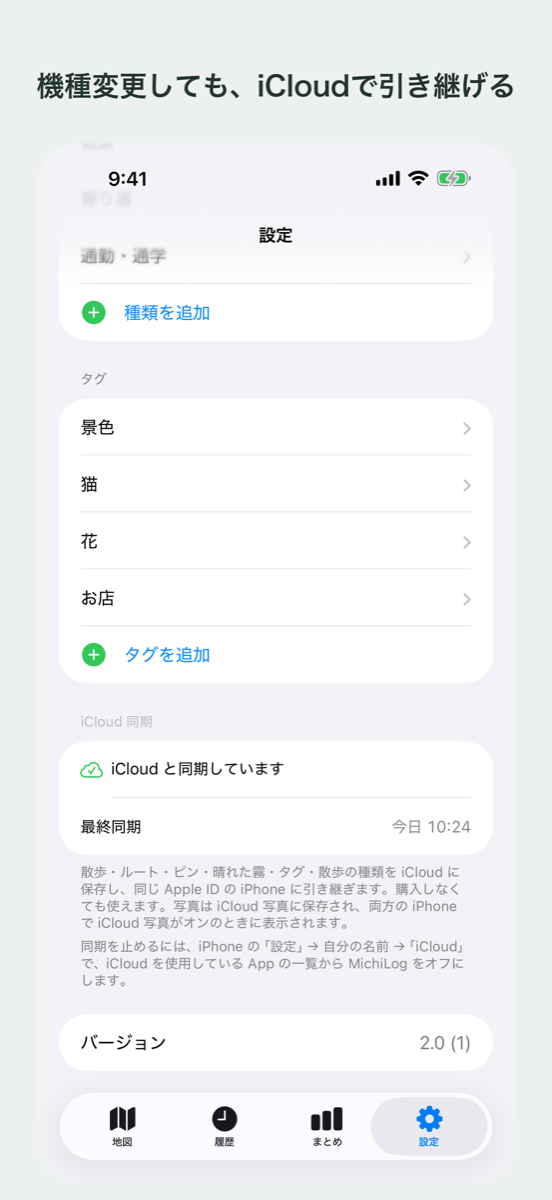
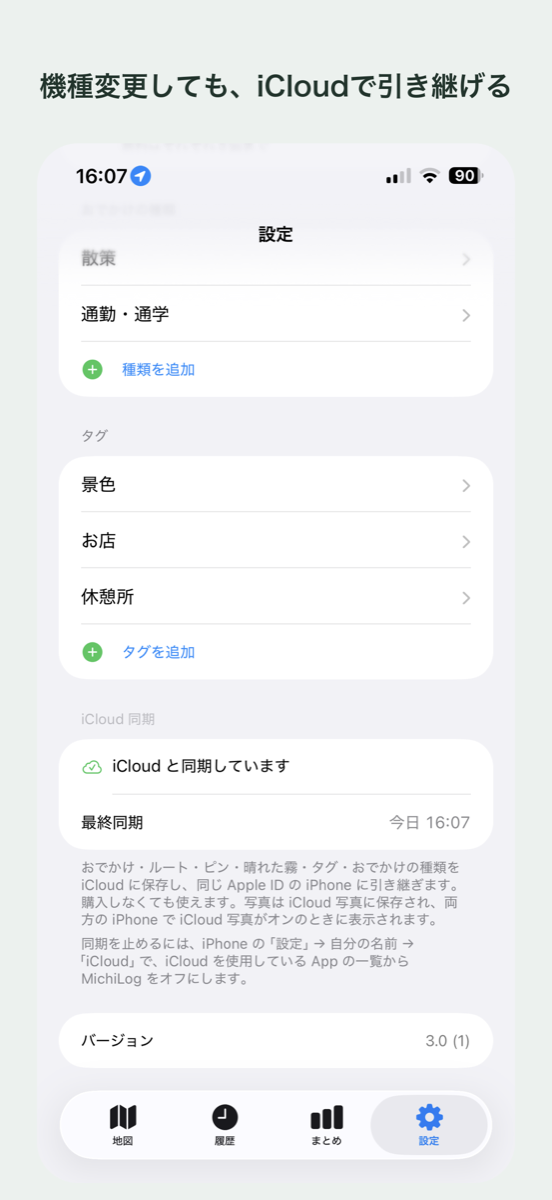
ver-3.0: LP をおでかけ・乗り物対応・歩数の内容に差し替え(広告の注記・悩みの節・やらないことの節)

diff --git a/index.html b/index.html
@@ -3,10 +3,10 @@
 <head>
 <meta charset="UTF-8">
 <meta name="viewport" content="width=device-width, initial-scale=1.0">
-<title>MichiLog — 歩いた道だけ、霧が晴れる散歩地図</title>
-<meta name="description" content="MichiLogは、歩いた道の霧が晴れていく地図に、その場で撮った写真とメモが残る散歩アプリです。">
-<meta property="og:title" content="MichiLog — 歩いた道だけ、霧が晴れる散歩地図">
-<meta property="og:description" content="MichiLogは、歩いた道の霧が晴れていく地図に、その場で撮った写真とメモが残る散歩アプリです。">
+<title>MichiLog — 通った道だけ、霧が晴れるおでかけ地図</title>
+<meta name="description" content="MichiLogは、通った道の霧が晴れていく地図に、その場で撮った写真とメモが残るおでかけの記録アプリです。歩いた道は広く、電車や車で通った道は細く晴れます。">
+<meta property="og:title" content="MichiLog — 通った道だけ、霧が晴れるおでかけ地図">
+<meta property="og:description" content="MichiLogは、通った道の霧が晴れていく地図に、その場で撮った写真とメモが残るおでかけの記録アプリです。歩いた道は広く、電車や車で通った道は細く晴れます。">
 <meta property="og:type" content="website">
 <link rel="preconnect" href="https://fonts.googleapis.com">
 <link href="https://fonts.googleapis.com/css2?family=Zen+Maru+Gothic:wght@700;900&amp;family=Zen+Kaku+Gothic+New:wght@400;500;700&amp;family=DM+Mono:wght@400;500&amp;display=swap" rel="stylesheet">
@@ -72,14 +72,33 @@ a{color:#B34A17}a:hover{color:#8C3810}
 <div class="wrap hero" style="position: relative">
 <div style="display: flex; flex-direction: column; gap: 28px; align-items: flex-start">
 <span style="font-size: 13px; font-weight: 700; letter-spacing: .12em; color: #1C2A33; background: #FFFFFF; border-radius: 999px; padding: 4px 14px">iPhone アプリ</span>
-<h1 style="margin: 0; font-size: clamp(40px, 6vw, 72px); line-height: 1.28; font-weight: 900; letter-spacing: .02em">歩いた道だけ、<br>霧が晴れる。</h1>
-<p style="font-size: clamp(16px, 1.6vw, 18px); color: #34444F; max-width: 30em">知らない道を歩いた日のこと、地図の上に残っていますか。<br>MichiLog（ミチログ）は、歩いた道の霧が晴れていく地図に、その場で撮った写真とメモが残る散歩アプリです。</p>
+<h1 style="margin: 0; font-size: clamp(40px, 6vw, 72px); line-height: 1.28; font-weight: 900; letter-spacing: .02em">通った道だけ、<br>霧が晴れる。</h1>
+<p style="font-size: clamp(16px, 1.6vw, 18px); color: #34444F; max-width: 30em">MichiLog（ミチログ）は、通った道の霧が晴れていく地図に、その場で撮った写真とメモが残るおでかけの記録アプリです。<br>歩いた道は広く、電車や車で通った道は細く。見えていた景色の分だけ晴れます。</p>
 <div style="display: flex; flex-direction: column; gap: 12px; align-items: flex-start">
 <a class="cta-btn" id="cta-top" href="https://apps.apple.com/jp/app/michilog/id6819015225">App Store で見る<svg width="18" height="18" viewBox="0 0 24 24" fill="none" stroke="currentColor" stroke-width="2" stroke-linecap="round" stroke-linejoin="round" aria-hidden="true"><path d="M5 12h14"></path><path d="M13 6l6 6-6 6"></path></svg></a>
-<p style="font-size: 13px; color: #34444F">無料（アプリ内課金あり）</p>
+<p style="font-size: 13px; color: #34444F">無料（広告あり）<br>広告なし・まとめなどは買い切り ¥480</p>
 </div>
 </div>
-<div class="shot" style="justify-self: center"><img class="shotimg" src="images/shot-01-fog-map.png" alt="地図タブ。地図全体が薄いグレーの霧に覆われ、これまで歩いた道の周りだけが帯状に晴れて地図が見えている。オレンジのピンが点在し、上に今日の距離と今日の時間、下に開始ボタン"></div>
+<div class="shot" style="justify-self: center"><img class="shotimg" src="images/shot-01-fog-map.png" alt="地図タブ。地図全体が薄いグレーの霧に覆われ、これまで通った道の周りだけが帯状に晴れて地図が見えている。オレンジのピンが点在し、上に今日の距離と今日の時間、下に開始ボタン"></div>
+</div>
+</section>
+
+<!-- 悩み -->
+<section style="padding: 112px 0">
+<div class="wrap" style="display: flex; flex-direction: column; gap: 40px">
+<h2 style="margin: 0; font-size: clamp(24px, 3vw, 32px); line-height: 1.4; font-weight: 900">こんなこと、ありませんか</h2>
+<div class="cols3">
+<div style="background: #FFFFFF; border-radius: 20px; padding: 24px">
+<p style="font-size: 15px; line-height: 1.75">あちこち出かけているのに、どこへ行ったかを地図で見返せない</p>
+</div>
+<div style="background: #FFFFFF; border-radius: 20px; padding: 24px">
+<p style="font-size: 15px; line-height: 1.75">出かけた先で撮った写真が、どの道のどのあたりだったか思い出せない</p>
+</div>
+<div style="background: #FFFFFF; border-radius: 20px; padding: 24px">
+<p style="font-size: 15px; line-height: 1.75">近所の道は、もう歩き尽くした気がする</p>
+</div>
+</div>
+<p style="color: #4D5B64; max-width: 760px">MichiLog は、通った道を地図に晴らし、見つけたものをその場所に残します。歩いて回った町も、電車で通り過ぎた町も、同じ1枚の地図に。</p>
 </div>
 </section>
 
@@ -89,13 +108,13 @@ a{color:#B34A17}a:hover{color:#8C3810}
 <div style="display: flex; flex-direction: column; gap: 16px; max-width: 760px">
 <span style="font-family: 'DM Mono', monospace; font-size: 14px; color: #B34A17; letter-spacing: .1em">01 — 霧の地図</span>
 <h2 style="margin: 0; font-size: clamp(28px, 3.6vw, 42px); line-height: 1.4; font-weight: 900">地図は最初、すべて霧の中</h2>
-<p style="color: #4D5B64">歩いた道の周りだけ霧が晴れ、晴れた範囲はこれまでの散歩の積み重ねとして広がっていきます。霧は薄く透けていて、下の道路や地名がうっすら見えます。まだ歩いていない道が、どこにあるかは分かります。</p>
+<p style="color: #4D5B64">通った道の周りだけ霧が晴れ、晴れた範囲はこれまでのおでかけの積み重ねとして広がっていきます。晴れる幅は、そのとき見えていた景色に合わせて変わります。歩いているときは周りがよく見えるので広く、電車や車では景色が流れていくので細く晴れます。移動の手段を選ぶ操作はなく、速さから自動で決まります。霧は薄く透けていて、下の道路や地名がうっすら見えます。まだ通っていない道が、どこにあるかは分かります。</p>
 </div>
-<div class="cols2">
+<div class="cols3">
 <div style="border-radius: 24px; background: #DCE3E8; padding: 28px; min-height: 200px; display: flex; flex-direction: column; justify-content: space-between; gap: 24px">
 <svg width="100%" height="72" viewBox="0 0 400 72" preserveAspectRatio="none" fill="none" aria-hidden="true"><path d="M0 52 C 80 20, 160 64, 240 30 S 360 40, 400 18" stroke="#BCC7CF" stroke-width="10" stroke-linecap="round" stroke-dasharray="1 18"></path></svg>
 <div style="display: flex; flex-direction: column; gap: 4px">
-<h3 style="margin: 0; font-size: 20px; font-weight: 700">まだ歩いていない道</h3>
+<h3 style="margin: 0; font-size: 20px; font-weight: 700">まだ通っていない道</h3>
 <p style="font-size: 14px; color: #34444F">霧の下に、うっすら見えている</p>
 </div>
 </div>
@@ -103,7 +122,14 @@ a{color:#B34A17}a:hover{color:#8C3810}
 <svg width="100%" height="72" viewBox="0 0 400 72" preserveAspectRatio="none" fill="none" aria-hidden="true"><path d="M0 52 C 80 20, 160 64, 240 30 S 360 40, 400 18" stroke="#F0DDB0" stroke-width="26" stroke-linecap="round"></path><path d="M0 52 C 80 20, 160 64, 240 30 S 360 40, 400 18" stroke="#FFFFFF" stroke-width="3" stroke-linecap="round" stroke-dasharray="2 10"></path><circle cx="240" cy="30" r="9" fill="#E0662B"></circle></svg>
 <div style="display: flex; flex-direction: column; gap: 4px">
 <h3 style="margin: 0; font-size: 20px; font-weight: 700">歩いた道</h3>
-<p style="font-size: 14px; color: #4D5B64">周りの霧が晴れて、地図に残っていく</p>
+<p style="font-size: 14px; color: #4D5B64">周りがよく見えるので、広く晴れる</p>
+</div>
+</div>
+<div style="border-radius: 24px; background: #FBF4E6; border: 1px solid #EEDDBD; padding: 28px; min-height: 200px; display: flex; flex-direction: column; justify-content: space-between; gap: 24px">
+<svg width="100%" height="72" viewBox="0 0 400 72" preserveAspectRatio="none" fill="none" aria-hidden="true"><path d="M0 52 C 80 20, 160 64, 240 30 S 360 40, 400 18" stroke="#F0DDB0" stroke-width="10" stroke-linecap="round"></path><path d="M0 52 C 80 20, 160 64, 240 30 S 360 40, 400 18" stroke="#FFFFFF" stroke-width="2" stroke-linecap="round" stroke-dasharray="2 10"></path></svg>
+<div style="display: flex; flex-direction: column; gap: 4px">
+<h3 style="margin: 0; font-size: 20px; font-weight: 700">電車や車で通った道</h3>
+<p style="font-size: 14px; color: #4D5B64">景色が流れていくので、細く晴れる</p>
 </div>
 </div>
 </div>
@@ -115,15 +141,15 @@ a{color:#B34A17}a:hover{color:#8C3810}
 <div class="wrap split">
 <div style="display: flex; flex-direction: column; gap: 20px">
 <span style="font-family: 'DM Mono', monospace; font-size: 14px; color: #B34A17; letter-spacing: .1em">02 — 記録</span>
-<h2 style="margin: 0; font-size: clamp(28px, 3.6vw, 42px); line-height: 1.4; font-weight: 900">散歩中も、<br class="hide-sm">歩くそばから晴れていく</h2>
-<p style="color: #4D5B64">開始ボタンを押して歩き、終了ボタンを押すだけ。散歩のルート・距離・時間が記録され、今日歩いた距離と時間は地図の画面でいつでも見られます。</p>
+<h2 style="margin: 0; font-size: clamp(28px, 3.6vw, 42px); line-height: 1.4; font-weight: 900">おでかけ中も、<br class="hide-sm">通ったそばから晴れていく</h2>
+<p style="color: #4D5B64">出かけるときに開始ボタン、帰ったら終了ボタンを押すだけ。おでかけのルート・距離・時間が記録され、今日の距離と時間は地図の画面でいつでも見られます。</p>
 <p style="color: #4D5B64">画面を閉じても、iPhone をロックしても記録は続きます。</p>
 <div style="background: #FFFFFF; border: 1px solid #DFE6EB; border-radius: 16px; padding: 16px 20px; display: flex; gap: 12px; align-items: flex-start">
 <svg width="22" height="22" viewBox="0 0 24 24" fill="none" stroke="#4D5B64" stroke-width="1.8" stroke-linecap="round" stroke-linejoin="round" aria-hidden="true" style="flex: none; margin-top: 3px"><rect x="5" y="3" width="14" height="14" rx="3"></rect><path d="M5 11h14"></path><path d="M8 21l2-4"></path><path d="M16 21l-2-4"></path></svg>
-<p style="font-size: 14px; color: #4D5B64; line-height: 1.75">電車や車など、歩く速さを超える移動が続いた区間は、ルート・距離・霧に入りません。</p>
+<p style="font-size: 14px; color: #4D5B64; line-height: 1.75">電車や車、自転車で移動した区間も、ルートと距離に入ります。位置が取れない区間は晴れません。</p>
 </div>
 </div>
-<div class="shot"><img class="shotimg" loading="lazy" src="images/shot-02-recording.png" alt="記録中の地図タブ。上に「記録中」と経過時間と距離。青い線で今歩いているルートが描かれ、その周りの霧が晴れている。下に終了ボタンとピンボタン"></div>
+<div class="shot"><img class="shotimg" loading="lazy" src="images/shot-02-recording.png" alt="記録中の地図タブ。上に「記録中」と経過時間と距離。青い線で今通っているルートが描かれ、その周りの霧が晴れている。下に終了ボタンとピンボタン"></div>
 </div>
 </section>
 
@@ -134,7 +160,7 @@ a{color:#B34A17}a:hover{color:#8C3810}
 <div style="display: flex; flex-direction: column; gap: 20px">
 <span style="font-family: 'DM Mono', monospace; font-size: 14px; color: #B34A17; letter-spacing: .1em">03 — ピン</span>
 <h2 style="margin: 0; font-size: clamp(28px, 3.6vw, 42px); line-height: 1.4; font-weight: 900">見つけたものを、<br class="hide-sm">その場所に残す</h2>
-<p style="color: #4D5B64">散歩中は、現在地にピンを打って写真とメモを残せます。写真もメモも任意なので、気になった場所にさっと印だけ付けることもできます。</p>
+<p style="color: #4D5B64">おでかけ中は、現在地にピンを打って写真とメモを残せます。写真もメモも任意なので、気になった場所にさっと印だけ付けることもできます。</p>
 <p style="color: #4D5B64">写真は、その場でカメラで撮るか、iPhoneの写真ライブラリから選んで付けられます。打ったピンは、あとから写真・メモ・タグを変えたり、写真を外したり、ピンごと削除したりできます（ピンの場所と時刻は変わりません）。</p>
 <div style="display: flex; flex-wrap: wrap; gap: 8px; align-items: center">
 <span style="font-size: 14px; font-weight: 700; color: #1C2A33; background: #FBF4E6; border: 1px solid #EEDDBD; border-radius: 999px; padding: 4px 14px">景色</span>
@@ -155,11 +181,11 @@ a{color:#B34A17}a:hover{color:#8C3810}
 <div style="display: flex; flex-direction: column; gap: 20px">
 <span style="font-family: 'DM Mono', monospace; font-size: 14px; color: #B34A17; letter-spacing: .1em">04 — 見返す</span>
 <h2 style="margin: 0; font-size: clamp(28px, 3.6vw, 42px); line-height: 1.4; font-weight: 900">あの日の道を、もう一度</h2>
-<p style="color: #4D5B64">過去の散歩は一覧から選んで、ルートとピンを見返せます。</p>
-<p style="color: #4D5B64">散歩を終えたら「散策」「通勤・通学」のような散歩の種類を選べます。種類も自分で追加できます。</p>
-<p style="color: #4D5B64">不要な散歩は削除でき、削除すると霧も残った散歩から作り直されます。</p>
+<p style="color: #4D5B64">過去のおでかけは一覧から選んで、ルートとピンを見返せます。おでかけごとの歩数も出ます（「モーションとフィットネス」を許可したとき。ヘルスケアは使いません）。</p>
+<p style="color: #4D5B64">おでかけを終えたら「散策」「通勤・通学」のようなおでかけの種類を選べます。「旅行」のような種類も自分で追加できます。</p>
+<p style="color: #4D5B64">不要なおでかけは削除でき、削除すると霧も残ったおでかけから作り直されます。</p>
 </div>
-<div class="shot"><img class="shotimg" loading="lazy" src="images/shot-04-walk-detail.png" alt="散歩詳細。散歩のルートが地図に青い線で描かれ、ピンが2つ。下に時刻、距離、時間、散歩の種類「散策」、ピンのメモ2件"></div>
+<div class="shot"><img class="shotimg" loading="lazy" src="images/shot-04-walk-detail.png" alt="おでかけの詳細。おでかけのルートが地図に青い線で描かれ、ピンが2つ。下に時刻、距離、時間、おでかけの種類「散策」、ピンのメモ2件"></div>
 </div>
 </section>
 
@@ -168,35 +194,35 @@ a{color:#B34A17}a:hover{color:#8C3810}
 <div class="wrap" style="display: flex; flex-direction: column; gap: 56px">
 <div style="display: flex; flex-direction: column; gap: 16px; max-width: 760px">
 <span style="font-family: 'DM Mono', monospace; font-size: 14px; color: #F4A06E; letter-spacing: .1em">05 — 積み重ね</span>
-<h2 style="margin: 0; font-size: clamp(28px, 3.6vw, 42px); line-height: 1.4; font-weight: 900">歩いた記録が、積み上がる</h2>
+<h2 style="margin: 0; font-size: clamp(28px, 3.6vw, 42px); line-height: 1.4; font-weight: 900">出かけた記録が、積み上がる</h2>
 <p style="color: #D3DCE2">記録できる件数に上限はありません。</p>
 </div>
 <div class="cols3" style="align-items: start">
 <div style="display: flex; flex-direction: column; gap: 20px">
-<img loading="lazy" src="images/shot-05-history.png" alt="履歴タブ。散歩が新しい順に並び、日付と開始時刻、距離と時間、散歩の種類が出ている" style="width: 100%; height: auto; display: block; border-radius: 24px">
+<img loading="lazy" src="images/shot-05-history.png" alt="履歴タブ。おでかけが新しい順に並び、日付と開始時刻、距離と時間、おでかけの種類が出ている" style="width: 100%; height: auto; display: block; border-radius: 24px">
 <div style="display: flex; flex-direction: column; gap: 6px">
 <h3 style="margin: 0; font-size: 20px; font-weight: 700">履歴</h3>
-<p style="font-size: 14px; color: #D3DCE2; line-height: 1.75">散歩が新しい順に並びます。日付と開始時刻、距離と時間が1行に出ます。</p>
+<p style="font-size: 14px; color: #D3DCE2; line-height: 1.75">おでかけが新しい順に並びます。日付と開始時刻、距離と時間が1行に出ます。</p>
 </div>
 </div>
 <div style="display: flex; flex-direction: column; gap: 20px">
-<img loading="lazy" src="images/shot-06-summary.png" alt="まとめタブの週の表示。期間の回数・距離・時間、曜日ごとの距離の棒グラフと、散歩の種類別の回数と距離" style="width: 100%; height: auto; display: block; border-radius: 24px">
+<img loading="lazy" src="images/shot-06-summary.png" alt="まとめタブの週の表示。期間の回数・距離・時間、曜日ごとの距離の棒グラフと、おでかけの種類別の回数と距離" style="width: 100%; height: auto; display: block; border-radius: 24px">
 <div style="display: flex; flex-direction: column; gap: 6px">
 <div style="display: flex; align-items: center; gap: 10px; flex-wrap: wrap">
 <h3 style="margin: 0; font-size: 20px; font-weight: 700">まとめ</h3>
 <span style="font-size: 12px; font-weight: 700; color: #1C2A33; background: #F4A06E; border-radius: 6px; padding: 1px 8px">買い切りで使える</span>
 </div>
-<p style="font-size: 14px; color: #D3DCE2; line-height: 1.75">週・月・年ごとの散歩の回数・距離・時間をグラフで。散歩の種類別の内訳と、タグ別のピンの数も出ます。</p>
+<p style="font-size: 14px; color: #D3DCE2; line-height: 1.75">週・月・年ごとのおでかけの回数・距離・時間をグラフで。距離の歩きと乗り物の内訳、歩数の合計、おでかけの種類別の内訳と、タグ別のピンの数も出ます。</p>
 </div>
 </div>
 <div style="display: flex; flex-direction: column; gap: 20px">
-<img loading="lazy" src="images/shot-07-filter.png" alt="履歴タブを散歩の種類「散策」とタグ「景色」で絞り込んだ表示" style="width: 100%; height: auto; display: block; border-radius: 24px">
+<img loading="lazy" src="images/shot-07-filter.png" alt="履歴タブをおでかけの種類「散策」とタグ「景色」で絞り込んだ表示" style="width: 100%; height: auto; display: block; border-radius: 24px">
 <div style="display: flex; flex-direction: column; gap: 6px">
 <div style="display: flex; align-items: center; gap: 10px; flex-wrap: wrap">
 <h3 style="margin: 0; font-size: 20px; font-weight: 700">絞り込み</h3>
 <span style="font-size: 12px; font-weight: 700; color: #1C2A33; background: #F4A06E; border-radius: 6px; padding: 1px 8px">買い切りで使える</span>
 </div>
-<p style="font-size: 14px; color: #D3DCE2; line-height: 1.75">履歴を散歩の種類とタグで絞り込めます。タグを複数選ぶと、どれかが付いた散歩が並びます。</p>
+<p style="font-size: 14px; color: #D3DCE2; line-height: 1.75">履歴をおでかけの種類とタグで絞り込めます。タグを複数選ぶと、どれかが付いたおでかけが並びます。</p>
 </div>
 </div>
 </div>
@@ -206,7 +232,7 @@ a{color:#B34A17}a:hover{color:#8C3810}
 <!-- 06 iCloud -->
 <section style="padding: 112px 0; background: #FFFFFF">
 <div class="wrap split flip">
-<div class="shot"><img class="shotimg" loading="lazy" src="images/shot-08-settings.png" alt="設定タブ。散歩の種類とタグの一覧、iCloud 同期の欄に「iCloud と同期しています」と最終同期の時刻"></div>
+<div class="shot"><img class="shotimg" loading="lazy" src="images/shot-08-settings.png" alt="設定タブ。おでかけの種類とタグの一覧、iCloud 同期の欄に「iCloud と同期しています」と最終同期の時刻"></div>
 <div style="display: flex; flex-direction: column; gap: 20px">
 <span style="font-family: 'DM Mono', monospace; font-size: 14px; color: #B34A17; letter-spacing: .1em">06 — 引き継ぎ</span>
 <h2 style="margin: 0; font-size: clamp(28px, 3.6vw, 42px); line-height: 1.4; font-weight: 900">機種変更しても、引き継げる</h2>
@@ -229,8 +255,8 @@ a{color:#B34A17}a:hover{color:#8C3810}
 <h3 style="margin: 0; font-size: 24px; font-weight: 900">無料</h3>
 <span style="font-family: 'DM Mono', monospace; font-size: 28px; font-weight: 500">¥0</span>
 </div>
-<p style="font-size: 15px; font-weight: 700">記録・霧・ピン・履歴・iCloud での引き継ぎは、ずっと無料です。</p>
-<p style="font-size: 14px; color: #4D5B64; line-height: 1.8">購入していない間は、履歴・まとめ・設定の画面と、散歩を終えたあとに広告が出ます。地図の画面には出ません。</p>
+<p style="font-size: 15px; font-weight: 700">記録・霧（電車や車で通った道を含む）・ピン・歩数・履歴・iCloud での引き継ぎは、ずっと無料です。</p>
+<p style="font-size: 14px; color: #4D5B64; line-height: 1.8">購入していない間は、履歴・まとめ・設定の画面と、おでかけを終えたあとに広告が出ます。地図の画面には出ません。</p>
 </div>
 <div style="background: #FFFFFF; border: 2px solid #E0662B; border-radius: 28px; padding: 36px; display: flex; flex-direction: column; gap: 20px">
 <div style="display: flex; align-items: baseline; justify-content: space-between; gap: 12px; flex-wrap: wrap">
@@ -239,39 +265,54 @@ a{color:#B34A17}a:hover{color:#8C3810}
 </div>
 <ul style="margin: 0; padding: 0; list-style: none; display: flex; flex-direction: column; gap: 10px; font-size: 15px; line-height: 1.7">
 <li style="display: flex; gap: 10px; align-items: flex-start"><svg width="18" height="18" viewBox="0 0 24 24" fill="none" stroke="#B34A17" stroke-width="2.2" stroke-linecap="round" stroke-linejoin="round" aria-hidden="true" style="flex: none; margin-top: 5px"><path d="M5 12l5 5 9-10"></path></svg><span>広告が消える</span></li>
-<li style="display: flex; gap: 10px; align-items: flex-start"><svg width="18" height="18" viewBox="0 0 24 24" fill="none" stroke="#B34A17" stroke-width="2.2" stroke-linecap="round" stroke-linejoin="round" aria-hidden="true" style="flex: none; margin-top: 5px"><path d="M5 12l5 5 9-10"></path></svg><span>まとめ</span></li>
+<li style="display: flex; gap: 10px; align-items: flex-start"><svg width="18" height="18" viewBox="0 0 24 24" fill="none" stroke="#B34A17" stroke-width="2.2" stroke-linecap="round" stroke-linejoin="round" aria-hidden="true" style="flex: none; margin-top: 5px"><path d="M5 12l5 5 9-10"></path></svg><span>まとめ（歩きと乗り物の内訳・歩数の合計を含む）</span></li>
 <li style="display: flex; gap: 10px; align-items: flex-start"><svg width="18" height="18" viewBox="0 0 24 24" fill="none" stroke="#B34A17" stroke-width="2.2" stroke-linecap="round" stroke-linejoin="round" aria-hidden="true" style="flex: none; margin-top: 5px"><path d="M5 12l5 5 9-10"></path></svg><span>履歴の絞り込み</span></li>
-<li style="display: flex; gap: 10px; align-items: flex-start"><svg width="18" height="18" viewBox="0 0 24 24" fill="none" stroke="#B34A17" stroke-width="2.2" stroke-linecap="round" stroke-linejoin="round" aria-hidden="true" style="flex: none; margin-top: 5px"><path d="M5 12l5 5 9-10"></path></svg><span>6個目以降のタグと散歩の種類</span></li>
+<li style="display: flex; gap: 10px; align-items: flex-start"><svg width="18" height="18" viewBox="0 0 24 24" fill="none" stroke="#B34A17" stroke-width="2.2" stroke-linecap="round" stroke-linejoin="round" aria-hidden="true" style="flex: none; margin-top: 5px"><path d="M5 12l5 5 9-10"></path></svg><span>6個目以降のタグとおでかけの種類</span></li>
 </ul>
 </div>
 </div>
 </div>
 </section>
 
-<!-- プライバシー -->
+<!-- やらないこと -->
 <section style="padding: 0 0 112px">
 <div class="wrap" style="display: flex; flex-direction: column; gap: 32px">
-<h2 style="margin: 0; font-size: clamp(24px, 3vw, 32px); line-height: 1.4; font-weight: 900">位置情報とプライバシー</h2>
-<div class="cols4">
+<h2 style="margin: 0; font-size: clamp(24px, 3vw, 32px); line-height: 1.4; font-weight: 900">やらないこと</h2>
+<div class="cols3">
 <div style="background: #FFFFFF; border-radius: 20px; padding: 24px; display: flex; flex-direction: column; gap: 12px">
 <svg width="26" height="26" viewBox="0 0 24 24" fill="none" stroke="#1C2A33" stroke-width="1.8" stroke-linecap="round" stroke-linejoin="round" aria-hidden="true"><path d="M12 21s-7-6.2-7-11.5A7 7 0 0 1 19 9.5C19 14.8 12 21 12 21z"></path><circle cx="12" cy="9.5" r="2.5"></circle></svg>
-<p style="font-size: 14px; line-height: 1.75">位置情報は「使用中のみ許可」で使います。「常に許可」は求めません</p>
-</div>
-<div style="background: #FFFFFF; border-radius: 20px; padding: 24px; display: flex; flex-direction: column; gap: 12px">
-<svg width="26" height="26" viewBox="0 0 24 24" fill="none" stroke="#1C2A33" stroke-width="1.8" stroke-linecap="round" stroke-linejoin="round" aria-hidden="true"><rect x="7" y="2" width="10" height="20" rx="2.5"></rect><path d="M11 18h2"></path></svg>
-<p style="font-size: 14px; line-height: 1.75">記録したデータは iPhone とご自身の iCloud に保存され、開発者が受け取ることはありません</p>
-</div>
-<div style="background: #FFFFFF; border-radius: 20px; padding: 24px; display: flex; flex-direction: column; gap: 12px">
-<svg width="26" height="26" viewBox="0 0 24 24" fill="none" stroke="#1C2A33" stroke-width="1.8" stroke-linecap="round" stroke-linejoin="round" aria-hidden="true"><rect x="3" y="5" width="18" height="14" rx="2.5"></rect><path d="M7 10h6"></path><path d="M7 14h10"></path></svg>
-<p style="font-size: 14px; line-height: 1.75">広告の表示のために、広告配信事業者（Google）が端末の識別子などを使います。トラッキングの許可は任意です</p>
+<h3 style="margin: 0; font-size: 16px; font-weight: 700">位置情報の「常に許可」を求めません</h3>
+<p style="font-size: 14px; line-height: 1.75">位置情報は「使用中のみ許可」のまま、画面を閉じても記録を続けます。</p>
 </div>
 <div style="background: #FFFFFF; border-radius: 20px; padding: 24px; display: flex; flex-direction: column; gap: 12px">
 <svg width="26" height="26" viewBox="0 0 24 24" fill="none" stroke="#1C2A33" stroke-width="1.8" stroke-linecap="round" stroke-linejoin="round" aria-hidden="true"><circle cx="12" cy="8" r="4"></circle><path d="M4 21c1.5-4 4.5-6 8-6s6.5 2 8 6"></path></svg>
-<p style="font-size: 14px; line-height: 1.75">アカウント登録は不要です</p>
+<h3 style="margin: 0; font-size: 16px; font-weight: 700">アカウント登録はいりません</h3>
+<p style="font-size: 14px; line-height: 1.75">アプリ独自のアカウントはありません。引き継ぎにはお使いの iCloud を使います。</p>
+</div>
+<div style="background: #FFFFFF; border-radius: 20px; padding: 24px; display: flex; flex-direction: column; gap: 12px">
+<svg width="26" height="26" viewBox="0 0 24 24" fill="none" stroke="#1C2A33" stroke-width="1.8" stroke-linecap="round" stroke-linejoin="round" aria-hidden="true"><rect x="7" y="2" width="10" height="20" rx="2.5"></rect><path d="M11 18h2"></path></svg>
+<h3 style="margin: 0; font-size: 16px; font-weight: 700">記録したデータを開発者は受け取りません</h3>
+<p style="font-size: 14px; line-height: 1.75">ルート・ピン・歩数などの記録は、iPhone とご自身の iCloud にだけ保存されます。</p>
+<p style="font-size: 13px; color: #4D5B64">広告の表示のために、広告配信事業者（Google）が端末の識別子などを使います。トラッキングの許可は任意です。</p>
+</div>
+<div style="background: #FFFFFF; border-radius: 20px; padding: 24px; display: flex; flex-direction: column; gap: 12px">
+<svg width="26" height="26" viewBox="0 0 24 24" fill="none" stroke="#1C2A33" stroke-width="1.8" stroke-linecap="round" stroke-linejoin="round" aria-hidden="true"><rect x="3" y="4" width="18" height="16" rx="2.5"></rect><path d="M3 16l5-5 4 4 3-3 6 6"></path><circle cx="8.5" cy="8.5" r="1.5"></circle></svg>
+<h3 style="margin: 0; font-size: 16px; font-weight: 700">写真を複製しません</h3>
+<p style="font-size: 14px; line-height: 1.75">写真は iPhone の写真アプリに保存され、アプリが持つのは写真への参照だけです。</p>
+</div>
+<div style="background: #FFFFFF; border-radius: 20px; padding: 24px; display: flex; flex-direction: column; gap: 12px">
+<svg width="26" height="26" viewBox="0 0 24 24" fill="none" stroke="#1C2A33" stroke-width="1.8" stroke-linecap="round" stroke-linejoin="round" aria-hidden="true"><path d="M4 8h14"></path><path d="M14 4l4 4-4 4"></path><path d="M20 16H6"></path><path d="M10 12l-4 4 4 4"></path></svg>
+<h3 style="margin: 0; font-size: 16px; font-weight: 700">移動の手段を選ばせません</h3>
+<p style="font-size: 14px; line-height: 1.75">歩きか乗り物かは、速さから自動で決まります。</p>
+</div>
+<div style="background: #FFFFFF; border-radius: 20px; padding: 24px; display: flex; flex-direction: column; gap: 12px">
+<svg width="26" height="26" viewBox="0 0 24 24" fill="none" stroke="#1C2A33" stroke-width="1.8" stroke-linecap="round" stroke-linejoin="round" aria-hidden="true"><path d="M12 20s-8-5-8-11a4.5 4.5 0 0 1 8-2.8A4.5 4.5 0 0 1 20 9c0 6-8 11-8 11z"></path></svg>
+<h3 style="margin: 0; font-size: 16px; font-weight: 700">ヘルスケアの情報は使いません</h3>
+<p style="font-size: 14px; line-height: 1.75">歩数は「モーションとフィットネス」から取ります。消費カロリーは出しません。</p>
 </div>
 </div>
 <div style="background: #E7ECEF; border-radius: 20px; padding: 22px 26px; display: flex; flex-direction: column; gap: 8px">
-<p style="font-size: 14px; color: #34444F; line-height: 1.8">散歩の記録中にバックグラウンドで位置情報を使い続けると、バッテリーの消費が増える場合があります。歩行中は画面を見続けず、周囲の安全に気をつけてお使いください。</p>
+<p style="font-size: 14px; color: #34444F; line-height: 1.8">おでかけの記録中にバックグラウンドで位置情報を使い続けると、バッテリーの消費が増える場合があります。移動中は画面を見続けず、周囲の安全に気をつけてお使いください。車や自転車を運転しながら操作しないでください。</p>
 <p style="font-size: 14px; color: #34444F">対応環境：iOS 17.0 以上の iPhone</p>
 </div>
 </div>
@@ -281,9 +322,9 @@ a{color:#B34A17}a:hover{color:#8C3810}
 <footer style="background: #1C2A33; color: #FFFFFF; padding: 96px 0 40px">
 <div class="wrap" style="display: flex; flex-direction: column; align-items: center; gap: 28px; text-align: center">
 <img src="images/appicon.png" alt="MichiLog アプリアイコン" style="width: 88px; height: 88px; border-radius: 22px">
-<h2 style="margin: 0; font-size: clamp(26px, 3.4vw, 38px); line-height: 1.5; font-weight: 900">今日の散歩から、<br>霧を晴らしていく。</h2>
+<h2 style="margin: 0; font-size: clamp(26px, 3.4vw, 38px); line-height: 1.5; font-weight: 900">今日のおでかけから、<br>霧を晴らしていく。</h2>
 <a class="cta-btn light" id="cta-bottom" href="https://apps.apple.com/jp/app/michilog/id6819015225">App Store で見る<svg width="18" height="18" viewBox="0 0 24 24" fill="none" stroke="currentColor" stroke-width="2" stroke-linecap="round" stroke-linejoin="round" aria-hidden="true"><path d="M5 12h14"></path><path d="M13 6l6 6-6 6"></path></svg></a>
-<p style="font-size: 13px; color: #D3DCE2">無料（アプリ内課金あり）</p>
+<p style="font-size: 13px; color: #D3DCE2">無料（広告あり）<br>広告なし・まとめなどは買い切り ¥480</p>
 <nav class="foot" aria-label="関連リンク" style="display: flex; flex-wrap: wrap; justify-content: center; column-gap: 28px; row-gap: 0; margin-top: 32px; font-size: 14px">
 <a href="https://shoheicraftdev-design.github.io/michilog-support/">サポート・使い方</a>
 <a href="https://shoheicraftdev-design.github.io/michilog-support/privacy.html">プライバシーポリシー</a>

diff --git a/README.md b/README.md
@@ -3,6 +3,6 @@
 MichiLog（iPhone アプリ・製品リポ `walk-log`）の製品ランディングページ。GitHub Pages で公開。
 - 公開URL: https://shoheicraftdev-design.github.io/michilog-lp/
 - サポート: https://github.com/shoheicraftdev-design/michilog-support
-- 内容の版: ver-2.0（公開中）。CTA は App Store のリンク（id6819015225）。「歩いた道」→「通った道／おでかけ」への言い換えは乗り物対応の ver-3.0 公開時に行う（今のアプリは乗り物の区間を晴らさないため）
+- 内容の版: ver-3.0（公開中）。CTA は App Store のリンク（id6819015225）
 - 文言の正本: **この LP 自身**。ASC の説明文と揃えなくてよい（2026-10-05 CEO 決裁・全製品）。機能の事実関係はアプリ側を参照し、下の「文言のルール」の禁止事項は引き続き守る。機能の参照先: 製品リポ `walk-log` の `fastlane/metadata/ja/*.txt`・`docs/appstore/ver-1.0-submission.md`
 - 掲載画像: `images/shot-*.png` は `walk-log/docs/appstore/screenshots/6.9-inch/`（1320×2868）を長辺1200pxに縮小したもの
